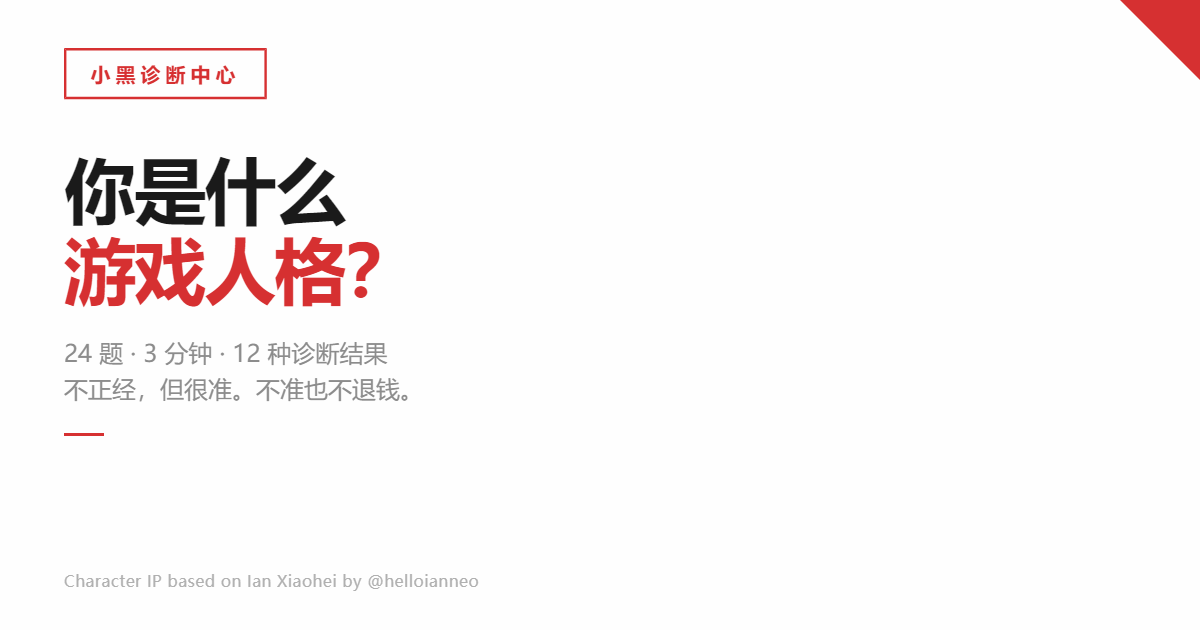
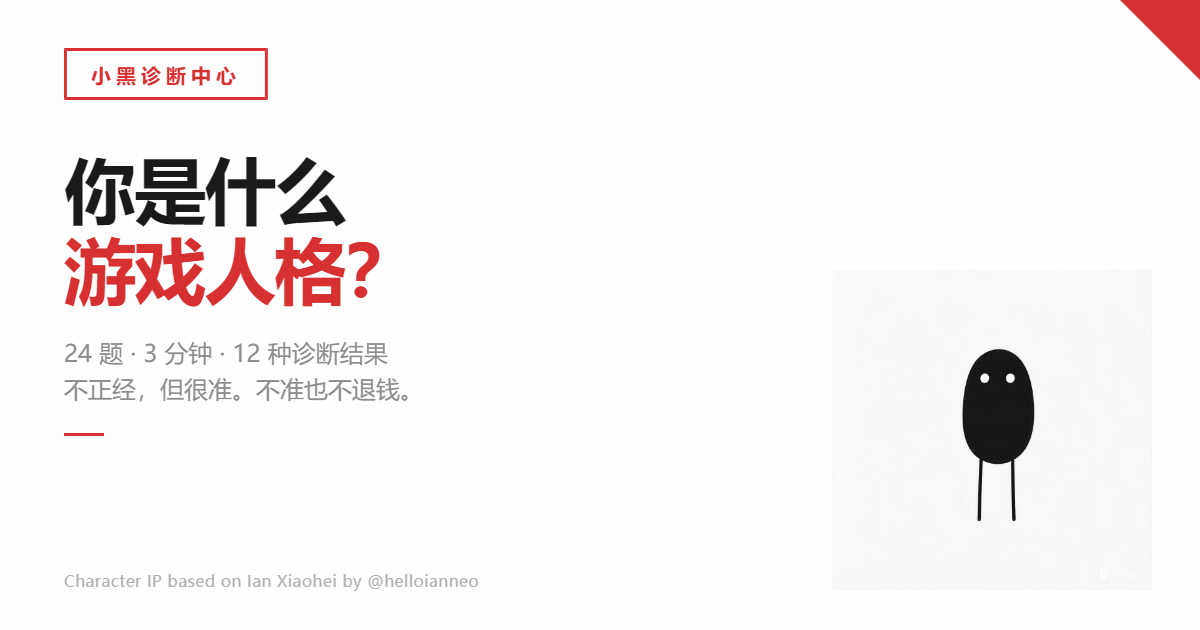
Remove useCORS from html2canvas calls, update OG image

Changed region(s): [[0.8017, 0.5429, 0.8633, 0.8143], [0.0617, 0.0905, 0.2158, 0.181], [0.2158, 0.5429, 0.3083, 0.573]]

diff --git a/og-image.html b/og-image.html
@@ -203,6 +203,31 @@
 
     var btn = document.getElementById('btnCapture');
     var card = document.getElementById('ogCard');
+    var imgPreloaded = false;
+
+    // Preload and convert the Xiaohei image to data URL so file:// works
+    var xiaoheiImg = card.querySelector('.og-xiaohei');
+    if (xiaoheiImg) {
+      var preloader = new Image();
+      preloader.crossOrigin = 'anonymous';
+      preloader.onload = function () {
+        try {
+          var c = document.createElement('canvas');
+          c.width = preloader.naturalWidth;
+          c.height = preloader.naturalHeight;
+          var ctx = c.getContext('2d');
+          ctx.drawImage(preloader, 0, 0);
+          xiaoheiImg.src = c.toDataURL('image/jpeg', 0.92);
+        } catch (_) { /* keep original src */ }
+        imgPreloaded = true;
+      };
+      preloader.onerror = function () {
+        imgPreloaded = true;
+      };
+      preloader.src = xiaoheiImg.src;
+    } else {
+      imgPreloaded = true;
+    }
 
     btn.addEventListener('click', function () {
       if (typeof html2canvas === 'undefined') {
@@ -210,40 +235,56 @@
         return;
       }
 
+      if (window.location.protocol === 'file:') {
+        alert('请通过 HTTP 服务器打开此页面。\n\n在项目目录下运行：\npython -m http.server 8080\n\n然后访问 http://localhost:8080/og-image.html');
+        return;
+      }
+
       btn.textContent = '生成中…';
       btn.disabled = true;
 
-      html2canvas(card, {
-        width: 1200,
-        height: 630,
-        scale: 1,
-        useCORS: true,
-        backgroundColor: '#FEFEFE',
-        onclone: function (clonedDoc) {
-          // Remove any scroll-related artifacts
-          var el = clonedDoc.getElementById('ogCard');
-          if (el) {
-            el.style.transform = 'none';
+      function doCapture() {
+        html2canvas(card, {
+          width: 1200,
+          height: 630,
+          scale: 1,
+          backgroundColor: '#FEFEFE',
+          onclone: function (clonedDoc) {
+            var el = clonedDoc.getElementById('ogCard');
+            if (el) {
+              el.style.transform = 'none';
+            }
           }
-        }
-      }).then(function (canvas) {
-        canvas.toBlob(function (blob) {
-          var url = URL.createObjectURL(blob);
-          var a = document.createElement('a');
-          a.href = url;
-          a.download = 'og-image.png';
-          document.body.appendChild(a);
-          a.click();
-          document.body.removeChild(a);
-          URL.revokeObjectURL(url);
+        }).then(function (canvas) {
+          canvas.toBlob(function (blob) {
+            var url = URL.createObjectURL(blob);
+            var a = document.createElement('a');
+            a.href = url;
+            a.download = 'og-image.png';
+            document.body.appendChild(a);
+            a.click();
+            document.body.removeChild(a);
+            URL.revokeObjectURL(url);
+            btn.textContent = '下载 PNG (1200×630)';
+            btn.disabled = false;
+          }, 'image/png');
+        }).catch(function (err) {
+          alert('生成失败：' + err.message);
           btn.textContent = '下载 PNG (1200×630)';
           btn.disabled = false;
-        }, 'image/png');
-      }).catch(function (err) {
-        alert('生成失败：' + err.message);
-        btn.textContent = '下载 PNG (1200×630)';
-        btn.disabled = false;
-      });
+        });
+      }
+
+      if (!imgPreloaded) {
+        var check = setInterval(function () {
+          if (imgPreloaded) {
+            clearInterval(check);
+            doCapture();
+          }
+        }, 100);
+      } else {
+        doCapture();
+      }
     });
   })();
   </script>

diff --git a/js/share.js b/js/share.js
@@ -81,7 +81,6 @@
       width: POSTER_W,
       height: POSTER_H,
       scale: 1,
-      useCORS: true,
       backgroundColor: '#FEFEFE'
     }).then(function (canvas) {
       document.body.removeChild(poster);